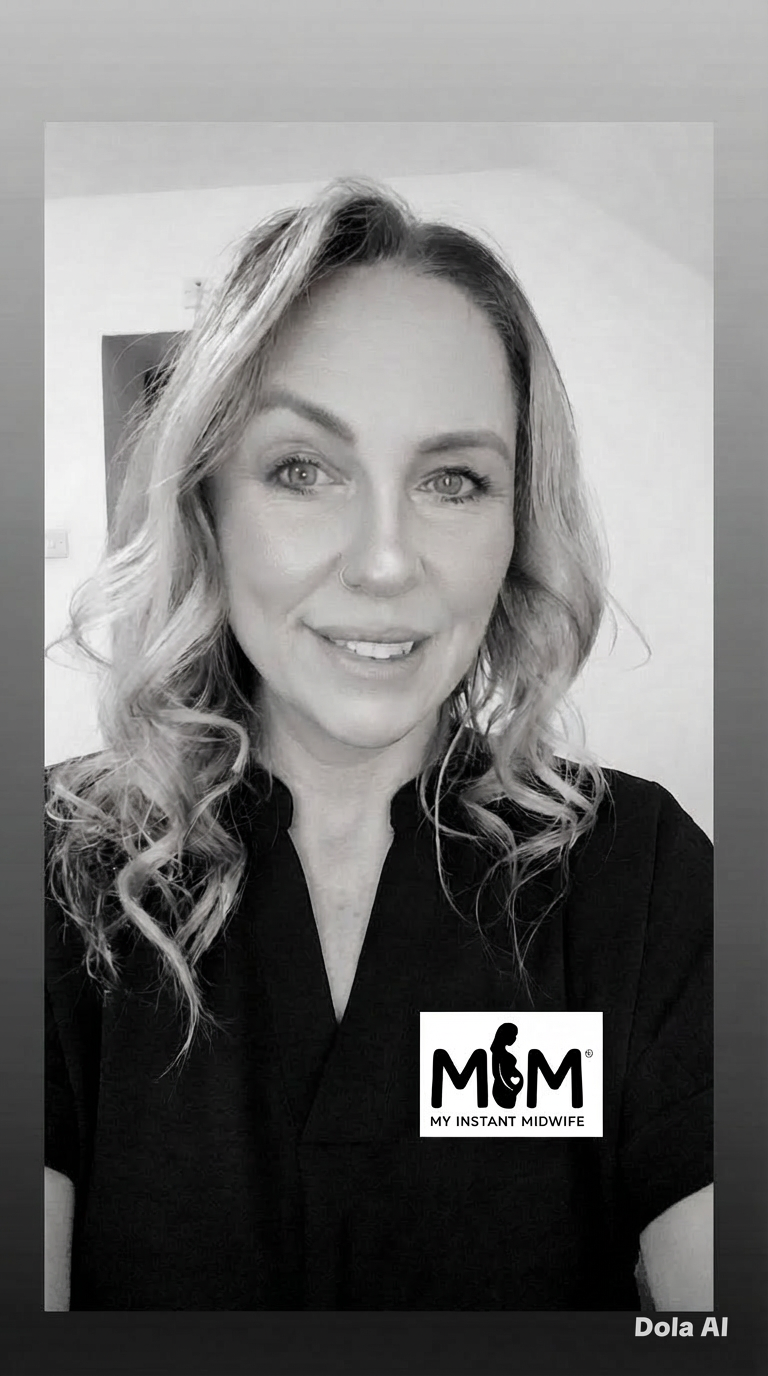
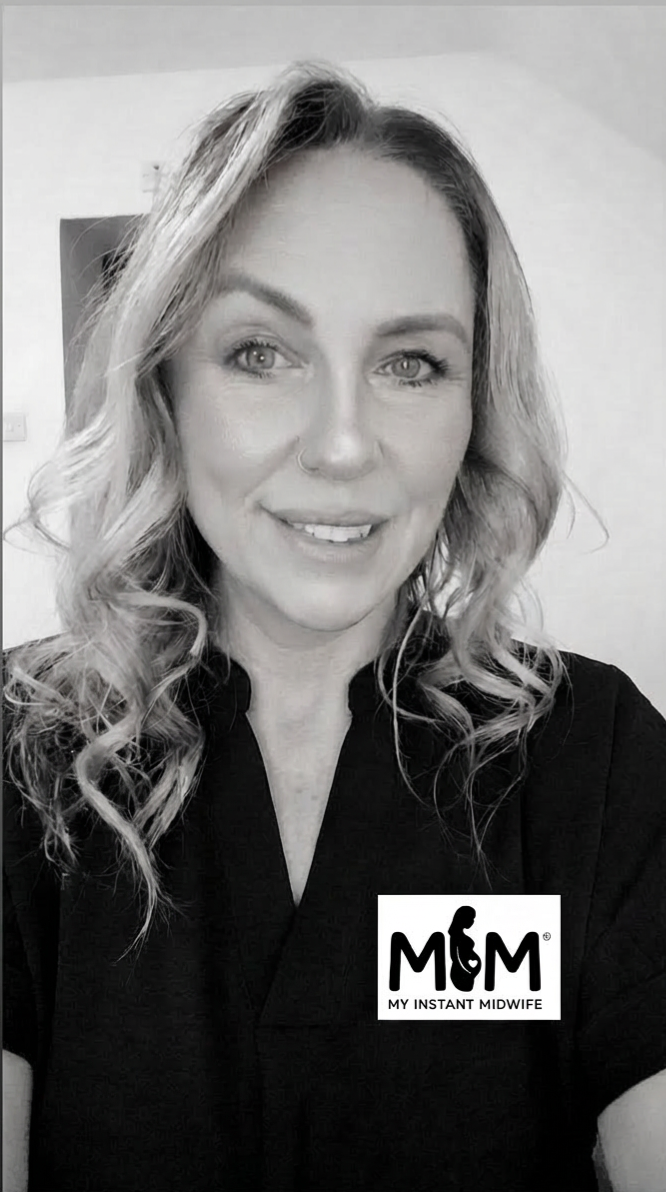
fixing client changes

diff --git a/faq.html b/faq.html
@@ -191,18 +191,18 @@
             <div class="gallery-item"><img src="images/testimonial1.png" alt="Client"><div class="ig-overlay"><i class="fab fa-instagram"></i></div></div>
             <div class="gallery-item"><img src="images/testimonial8.jpeg" alt="Client"><div class="ig-overlay"><i class="fab fa-instagram"></i></div></div>
 
-            <div class="gallery-item"><img src="images/family.jpeg" alt="Family"><div class="ig-overlay"><i class="fab fa-instagram"></i></div></div>
-            <div class="gallery-item"><img src="images/whoiam.jpeg" alt="Midwife portrait"><div class="ig-overlay"><i class="fab fa-instagram"></i></div></div>
-            <div class="gallery-item"><img src="images/offer1.png" alt="Support package"><div class="ig-overlay"><i class="fab fa-instagram"></i></div></div>
-            <div class="gallery-item"><img src="images/offer2.png" alt="Support package"><div class="ig-overlay"><i class="fab fa-instagram"></i></div></div>
-            <div class="gallery-item"><img src="images/offer3.png" alt="Support package"><div class="ig-overlay"><i class="fab fa-instagram"></i></div></div>
-            <div class="gallery-item"><img src="images/pkg.png" alt="Support package"><div class="ig-overlay"><i class="fab fa-instagram"></i></div></div>
-            <div class="gallery-item"><img src="images/pkg2.PNG" alt="Support package"><div class="ig-overlay"><i class="fab fa-instagram"></i></div></div>
-            <div class="gallery-item"><img src="images/course1.png" alt="Course"><div class="ig-overlay"><i class="fab fa-instagram"></i></div></div>
-            <div class="gallery-item"><img src="images/course2.png" alt="Course"><div class="ig-overlay"><i class="fab fa-instagram"></i></div></div>
-            <div class="gallery-item"><img src="images/course3.png" alt="Course"><div class="ig-overlay"><i class="fab fa-instagram"></i></div></div>
-            <div class="gallery-item"><img src="images/testimonial1.png" alt="Client"><div class="ig-overlay"><i class="fab fa-instagram"></i></div></div>
-            <div class="gallery-item"><img src="images/testimonial8.jpeg" alt="Client"><div class="ig-overlay"><i class="fab fa-instagram"></i></div></div>
+            <div class="gallery-item"><img src="images/WhatsApp Image 2026-06-16 at 9.27.53 PM.jpeg" alt="Gallery image"><div class="ig-overlay"><i class="fab fa-instagram"></i></div></div>
+            <div class="gallery-item"><img src="images/WhatsApp Image 2026-06-16 at 9.27.54 PM (1).jpeg" alt="Gallery image"><div class="ig-overlay"><i class="fab fa-instagram"></i></div></div>
+            <div class="gallery-item"><img src="images/WhatsApp Image 2026-06-16 at 9.27.54 PM.jpeg" alt="Gallery image"><div class="ig-overlay"><i class="fab fa-instagram"></i></div></div>
+            <div class="gallery-item"><img src="images/WhatsApp Image 2026-06-16 at 9.27.55 PM (1).jpeg" alt="Gallery image"><div class="ig-overlay"><i class="fab fa-instagram"></i></div></div>
+            <div class="gallery-item"><img src="images/WhatsApp Image 2026-06-16 at 9.27.55 PM.jpeg" alt="Gallery image"><div class="ig-overlay"><i class="fab fa-instagram"></i></div></div>
+            <div class="gallery-item"><img src="images/WhatsApp Image 2026-06-16 at 9.27.56 PM (1).jpeg" alt="Gallery image"><div class="ig-overlay"><i class="fab fa-instagram"></i></div></div>
+            <div class="gallery-item"><img src="images/WhatsApp Image 2026-06-16 at 9.27.56 PM.jpeg" alt="Gallery image"><div class="ig-overlay"><i class="fab fa-instagram"></i></div></div>
+            <div class="gallery-item"><img src="images/WhatsApp Image 2026-06-16 at 9.27.57 PM.jpeg" alt="Gallery image"><div class="ig-overlay"><i class="fab fa-instagram"></i></div></div>
+            <div class="gallery-item"><img src="images/WhatsApp Image 2026-06-16 at 9.27.58 PM.jpeg" alt="Gallery image"><div class="ig-overlay"><i class="fab fa-instagram"></i></div></div>
+            <div class="gallery-item"><img src="images/WhatsApp Image 2026-06-16 at 9.27.59 PM (1).jpeg" alt="Gallery image"><div class="ig-overlay"><i class="fab fa-instagram"></i></div></div>
+            <div class="gallery-item"><img src="images/WhatsApp Image 2026-06-16 at 9.27.59 PM.jpeg" alt="Gallery image"><div class="ig-overlay"><i class="fab fa-instagram"></i></div></div>
+            <div class="gallery-item"><img src="images/WhatsApp Image 2026-06-16 at 9.28.00 PM.jpeg" alt="Gallery image"><div class="ig-overlay"><i class="fab fa-instagram"></i></div></div>
         </div>
     </div>
 

diff --git a/js/components.js b/js/components.js
@@ -105,18 +105,18 @@
             <div class="gallery-item"><img src="${baseDir}images/testimonial1.png" alt="Client"><div class="ig-overlay"><i class="fab fa-instagram"></i></div></div>
             <div class="gallery-item"><img src="${baseDir}images/testimonial8.jpeg" alt="Client"><div class="ig-overlay"><i class="fab fa-instagram"></i></div></div>
 
-            <div class="gallery-item"><img src="${baseDir}images/family.jpeg" alt="Family"><div class="ig-overlay"><i class="fab fa-instagram"></i></div></div>
-            <div class="gallery-item"><img src="${baseDir}images/whoiam.jpeg" alt="Midwife portrait"><div class="ig-overlay"><i class="fab fa-instagram"></i></div></div>
-            <div class="gallery-item"><img src="${baseDir}images/offer1.png" alt="Support package"><div class="ig-overlay"><i class="fab fa-instagram"></i></div></div>
-            <div class="gallery-item"><img src="${baseDir}images/offer2.png" alt="Support package"><div class="ig-overlay"><i class="fab fa-instagram"></i></div></div>
-            <div class="gallery-item"><img src="${baseDir}images/offer3.png" alt="Support package"><div class="ig-overlay"><i class="fab fa-instagram"></i></div></div>
-            <div class="gallery-item"><img src="${baseDir}images/pkg.png" alt="Support package"><div class="ig-overlay"><i class="fab fa-instagram"></i></div></div>
-            <div class="gallery-item"><img src="${baseDir}images/pkg2.PNG" alt="Support package"><div class="ig-overlay"><i class="fab fa-instagram"></i></div></div>
-            <div class="gallery-item"><img src="${baseDir}images/course1.png" alt="Course"><div class="ig-overlay"><i class="fab fa-instagram"></i></div></div>
-            <div class="gallery-item"><img src="${baseDir}images/course2.png" alt="Course"><div class="ig-overlay"><i class="fab fa-instagram"></i></div></div>
-            <div class="gallery-item"><img src="${baseDir}images/course3.png" alt="Course"><div class="ig-overlay"><i class="fab fa-instagram"></i></div></div>
-            <div class="gallery-item"><img src="${baseDir}images/testimonial1.png" alt="Client"><div class="ig-overlay"><i class="fab fa-instagram"></i></div></div>
-            <div class="gallery-item"><img src="${baseDir}images/testimonial8.jpeg" alt="Client"><div class="ig-overlay"><i class="fab fa-instagram"></i></div></div>
+            <div class="gallery-item"><img src="${baseDir}images/WhatsApp Image 2026-06-16 at 9.27.53 PM.jpeg" alt="Gallery image"><div class="ig-overlay"><i class="fab fa-instagram"></i></div></div>
+            <div class="gallery-item"><img src="${baseDir}images/WhatsApp Image 2026-06-16 at 9.27.54 PM (1).jpeg" alt="Gallery image"><div class="ig-overlay"><i class="fab fa-instagram"></i></div></div>
+            <div class="gallery-item"><img src="${baseDir}images/WhatsApp Image 2026-06-16 at 9.27.54 PM.jpeg" alt="Gallery image"><div class="ig-overlay"><i class="fab fa-instagram"></i></div></div>
+            <div class="gallery-item"><img src="${baseDir}images/WhatsApp Image 2026-06-16 at 9.27.55 PM (1).jpeg" alt="Gallery image"><div class="ig-overlay"><i class="fab fa-instagram"></i></div></div>
+            <div class="gallery-item"><img src="${baseDir}images/WhatsApp Image 2026-06-16 at 9.27.55 PM.jpeg" alt="Gallery image"><div class="ig-overlay"><i class="fab fa-instagram"></i></div></div>
+            <div class="gallery-item"><img src="${baseDir}images/WhatsApp Image 2026-06-16 at 9.27.56 PM (1).jpeg" alt="Gallery image"><div class="ig-overlay"><i class="fab fa-instagram"></i></div></div>
+            <div class="gallery-item"><img src="${baseDir}images/WhatsApp Image 2026-06-16 at 9.27.56 PM.jpeg" alt="Gallery image"><div class="ig-overlay"><i class="fab fa-instagram"></i></div></div>
+            <div class="gallery-item"><img src="${baseDir}images/WhatsApp Image 2026-06-16 at 9.27.57 PM.jpeg" alt="Gallery image"><div class="ig-overlay"><i class="fab fa-instagram"></i></div></div>
+            <div class="gallery-item"><img src="${baseDir}images/WhatsApp Image 2026-06-16 at 9.27.58 PM.jpeg" alt="Gallery image"><div class="ig-overlay"><i class="fab fa-instagram"></i></div></div>
+            <div class="gallery-item"><img src="${baseDir}images/WhatsApp Image 2026-06-16 at 9.27.59 PM (1).jpeg" alt="Gallery image"><div class="ig-overlay"><i class="fab fa-instagram"></i></div></div>
+            <div class="gallery-item"><img src="${baseDir}images/WhatsApp Image 2026-06-16 at 9.27.59 PM.jpeg" alt="Gallery image"><div class="ig-overlay"><i class="fab fa-instagram"></i></div></div>
+            <div class="gallery-item"><img src="${baseDir}images/WhatsApp Image 2026-06-16 at 9.28.00 PM.jpeg" alt="Gallery image"><div class="ig-overlay"><i class="fab fa-instagram"></i></div></div>
         </div>
     </div>
 

diff --git a/index.html b/index.html
@@ -46,7 +46,7 @@
          Links to the full "About" page. -->
       <section class="who-we-are">
     <div class="who-left">
-        <img src="images/tasmin.jpeg" alt="Tasmin - Your Instant Midwife">
+        <img src="images/testimonial3.png" alt="Tasmin - Your Instant Midwife">
     </div>
     <div class="who-right">
         <h2>Who I Am</h2>

diff --git a/pages/about.html b/pages/about.html
@@ -40,7 +40,7 @@
          Links to the full "About" page. -->
        <section class="who-we-are-about">
     <div class="who-left-about">
-        <img src="../images/tasmin.jpeg" alt="Tasmin - Your Instant Midwife">
+        <img src="../images/testimonial3.png" alt="Tasmin - Your Instant Midwife">
     </div>
     <div class="who-right-about">
         <h2>Who I AM</h2>